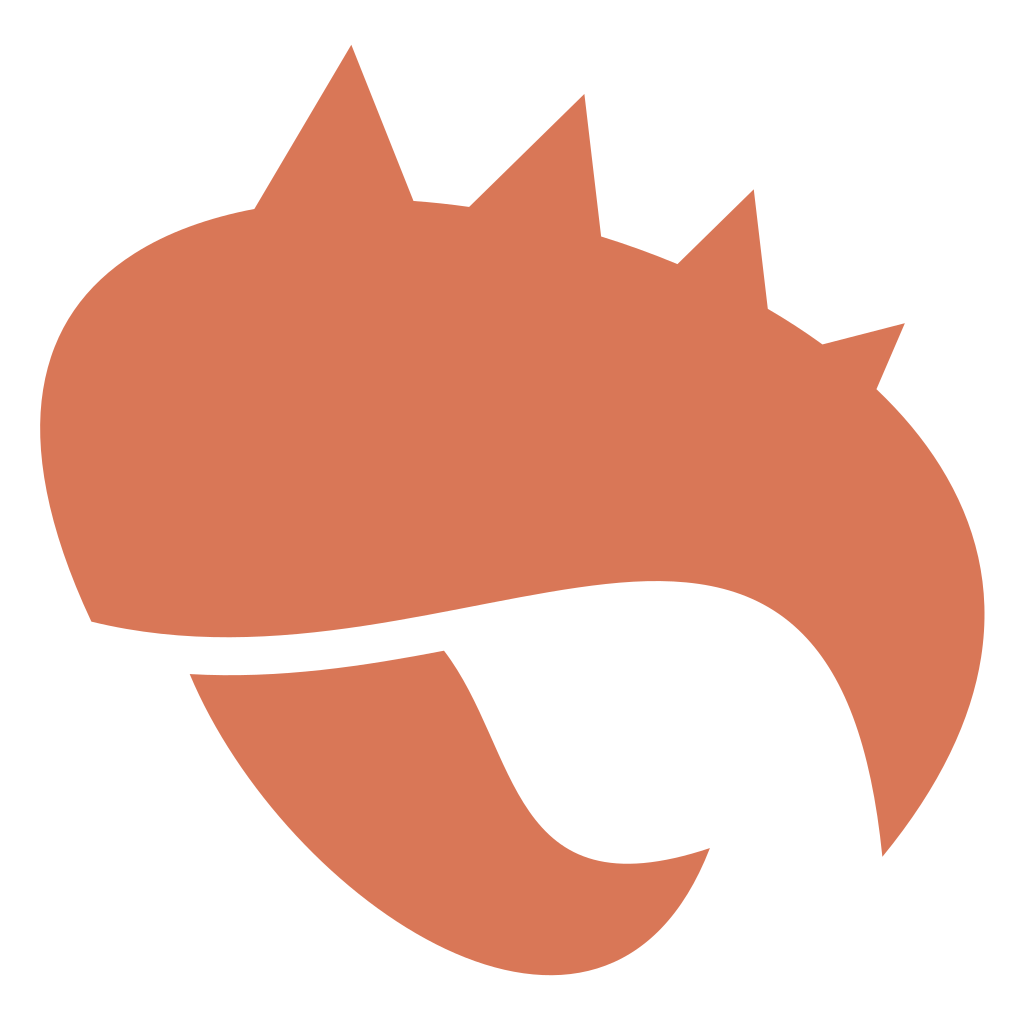
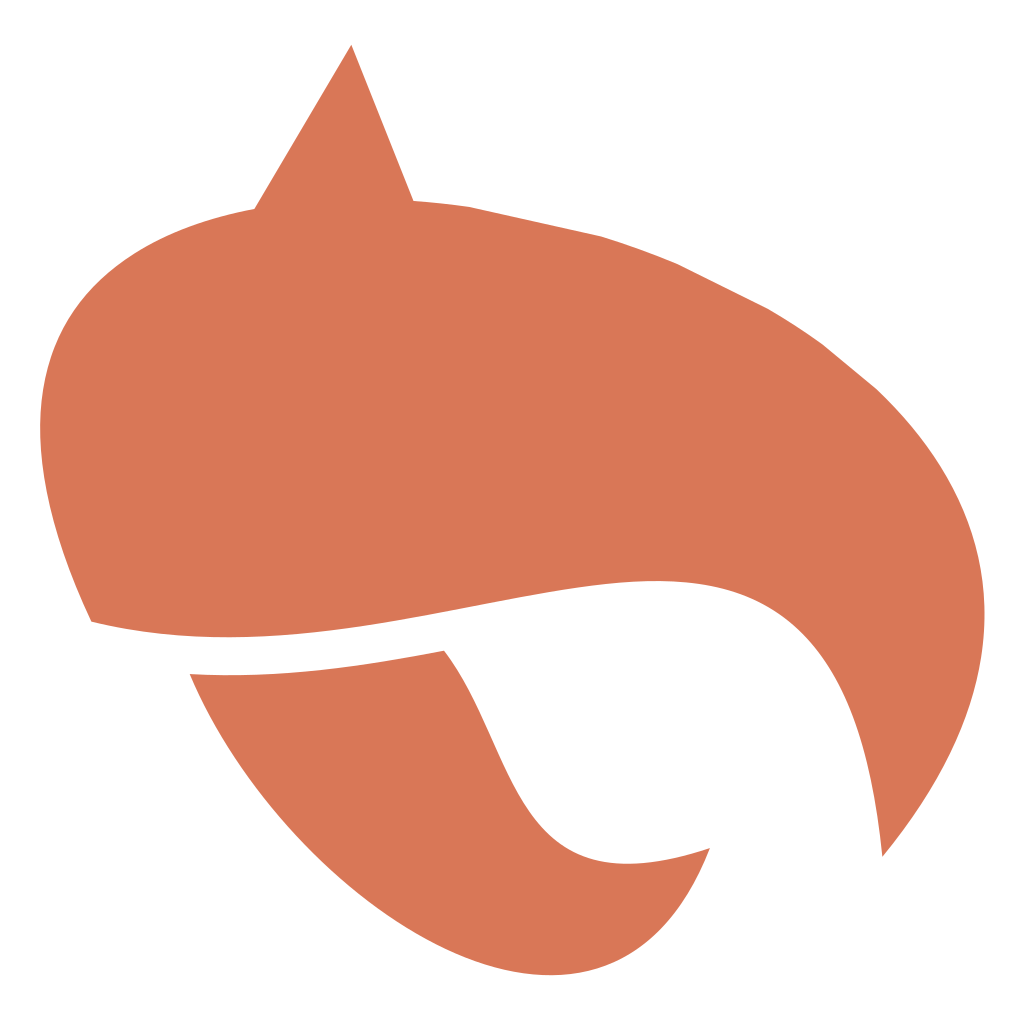
Smooth the claw top — remove the three triangular serrations
The Lorc crab-claw source has three triangular ridges along the top of
the upper pincer. Stylistically aggressive; user asked to calm them
down. Each ridge is a pair of relative line segments going out and
back (e.g. \`l14.217-33-41.218 10.625\`); replaced each pair with a
single straight line to the same endpoint so the top reads as a smooth
curved edge while the rest of the claw silhouette is unchanged.

Applied to icon-claw.svg, tray-claw-idle.svg, tray-claw-recording.svg,
the inline ClawIcon in App.tsx, and the rendered PNGs.

Changed region(s): [[0.4688, 0.0938, 0.5938, 0.25], [0.6562, 0.1875, 0.75, 0.3125], [0.8125, 0.3125, 0.875, 0.375]]

diff --git a/src/renderer/App.tsx b/src/renderer/App.tsx
@@ -31,7 +31,7 @@ const api = window.quietclaw
 function ClawIcon({ className }: { className?: string }) {
   return (
     <svg className={className} viewBox="0 0 512 512" fill="currentColor">
-      <path d="m175.656 22.375-48.47 82.094c-23.017 4.384-43.547 11.782-60.124 22.374-24.436 15.613-40.572 37.414-45.5 67.875-4.79 29.62 1.568 68.087 24.125 116.093 93.162 22.88 184.08-10.908 257.25-18.813 37.138-4.012 71.196-.898 96.344 22.97 22.33 21.19 36.21 56.808 41.908 113.436 29.246-35.682 44.538-69.065 49.343-99.594 5.543-35.207-2.526-66.97-20.31-95.593-8.52-13.708-19.368-26.618-32-38.626l14.217-33-41.218 10.625c-8.637-6.278-17.765-12.217-27.314-17.782l-7.03-59.782-38.157 37.406a423.505 423.505 0 0 0-38.158-13.812l-8.375-71.28-57.625 56.5c-9.344-1.316-18.625-2.333-27.812-2.97l-31.094-78.125zM222 325.345c-39.146 7.525-82.183 14.312-127.156 11.686 47.403 113.454 207.056 224.082 260.125 87-101.18 33.84-95.303-49.595-132.97-98.686z" />
+      <path d="m175.656 22.375-48.47 82.094c-23.017 4.384-43.547 11.782-60.124 22.374-24.436 15.613-40.572 37.414-45.5 67.875-4.79 29.62 1.568 68.087 24.125 116.093 93.162 22.88 184.08-10.908 257.25-18.813 37.138-4.012 71.196-.898 96.344 22.97 22.33 21.19 36.21 56.808 41.908 113.436 29.246-35.682 44.538-69.065 49.343-99.594 5.543-35.207-2.526-66.97-20.31-95.593-8.52-13.708-19.368-26.618-32-38.626l-27.001-22.375c-8.637-6.278-17.765-12.217-27.314-17.782l-45.187-22.376a423.505 423.505 0 0 0-38.158-13.812l-66-14.78c-9.344-1.316-18.625-2.333-27.812-2.97l-31.094-78.125zM222 325.345c-39.146 7.525-82.183 14.312-127.156 11.686 47.403 113.454 207.056 224.082 260.125 87-101.18 33.84-95.303-49.595-132.97-98.686z" />
     </svg>
   )
 }
